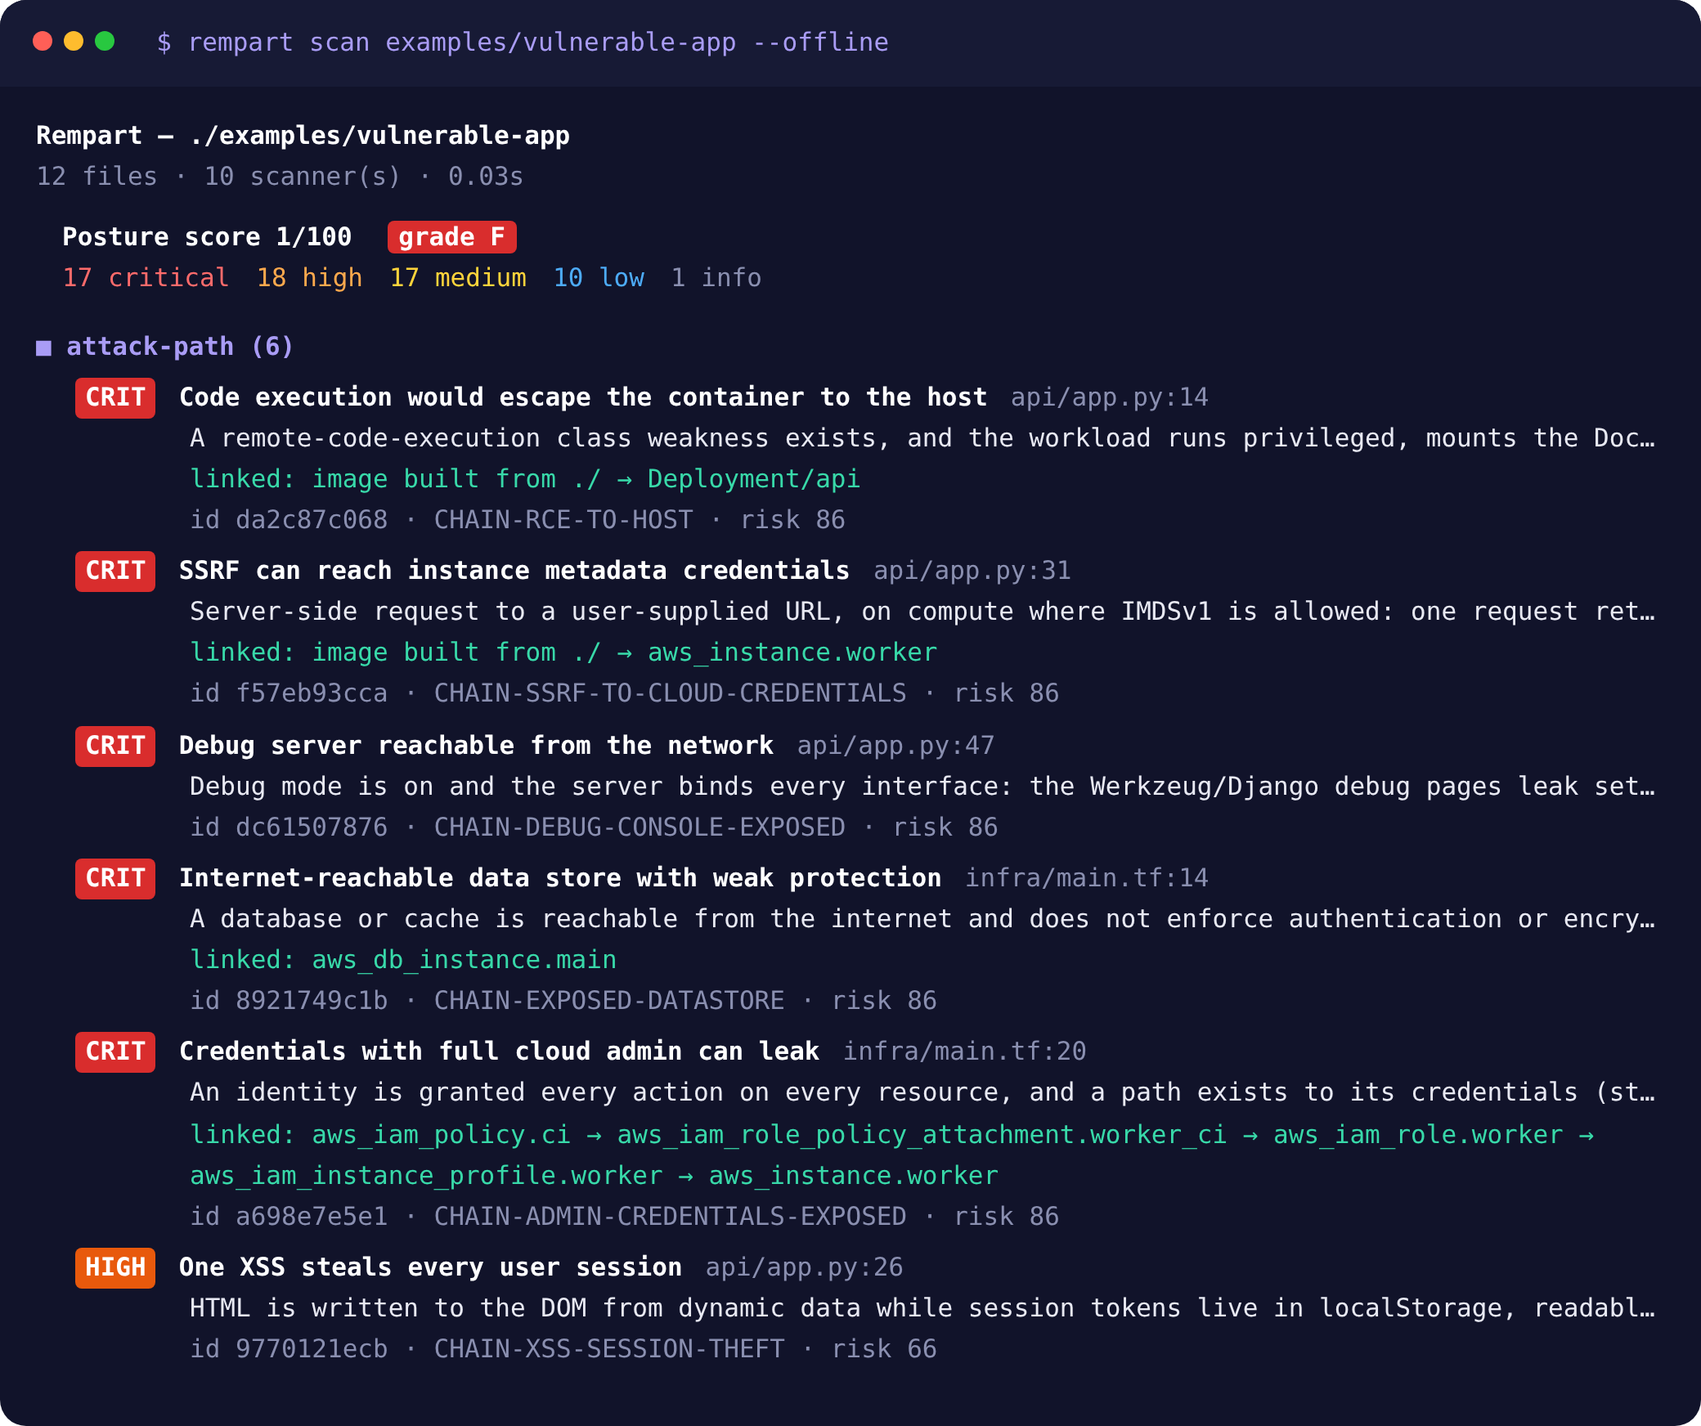
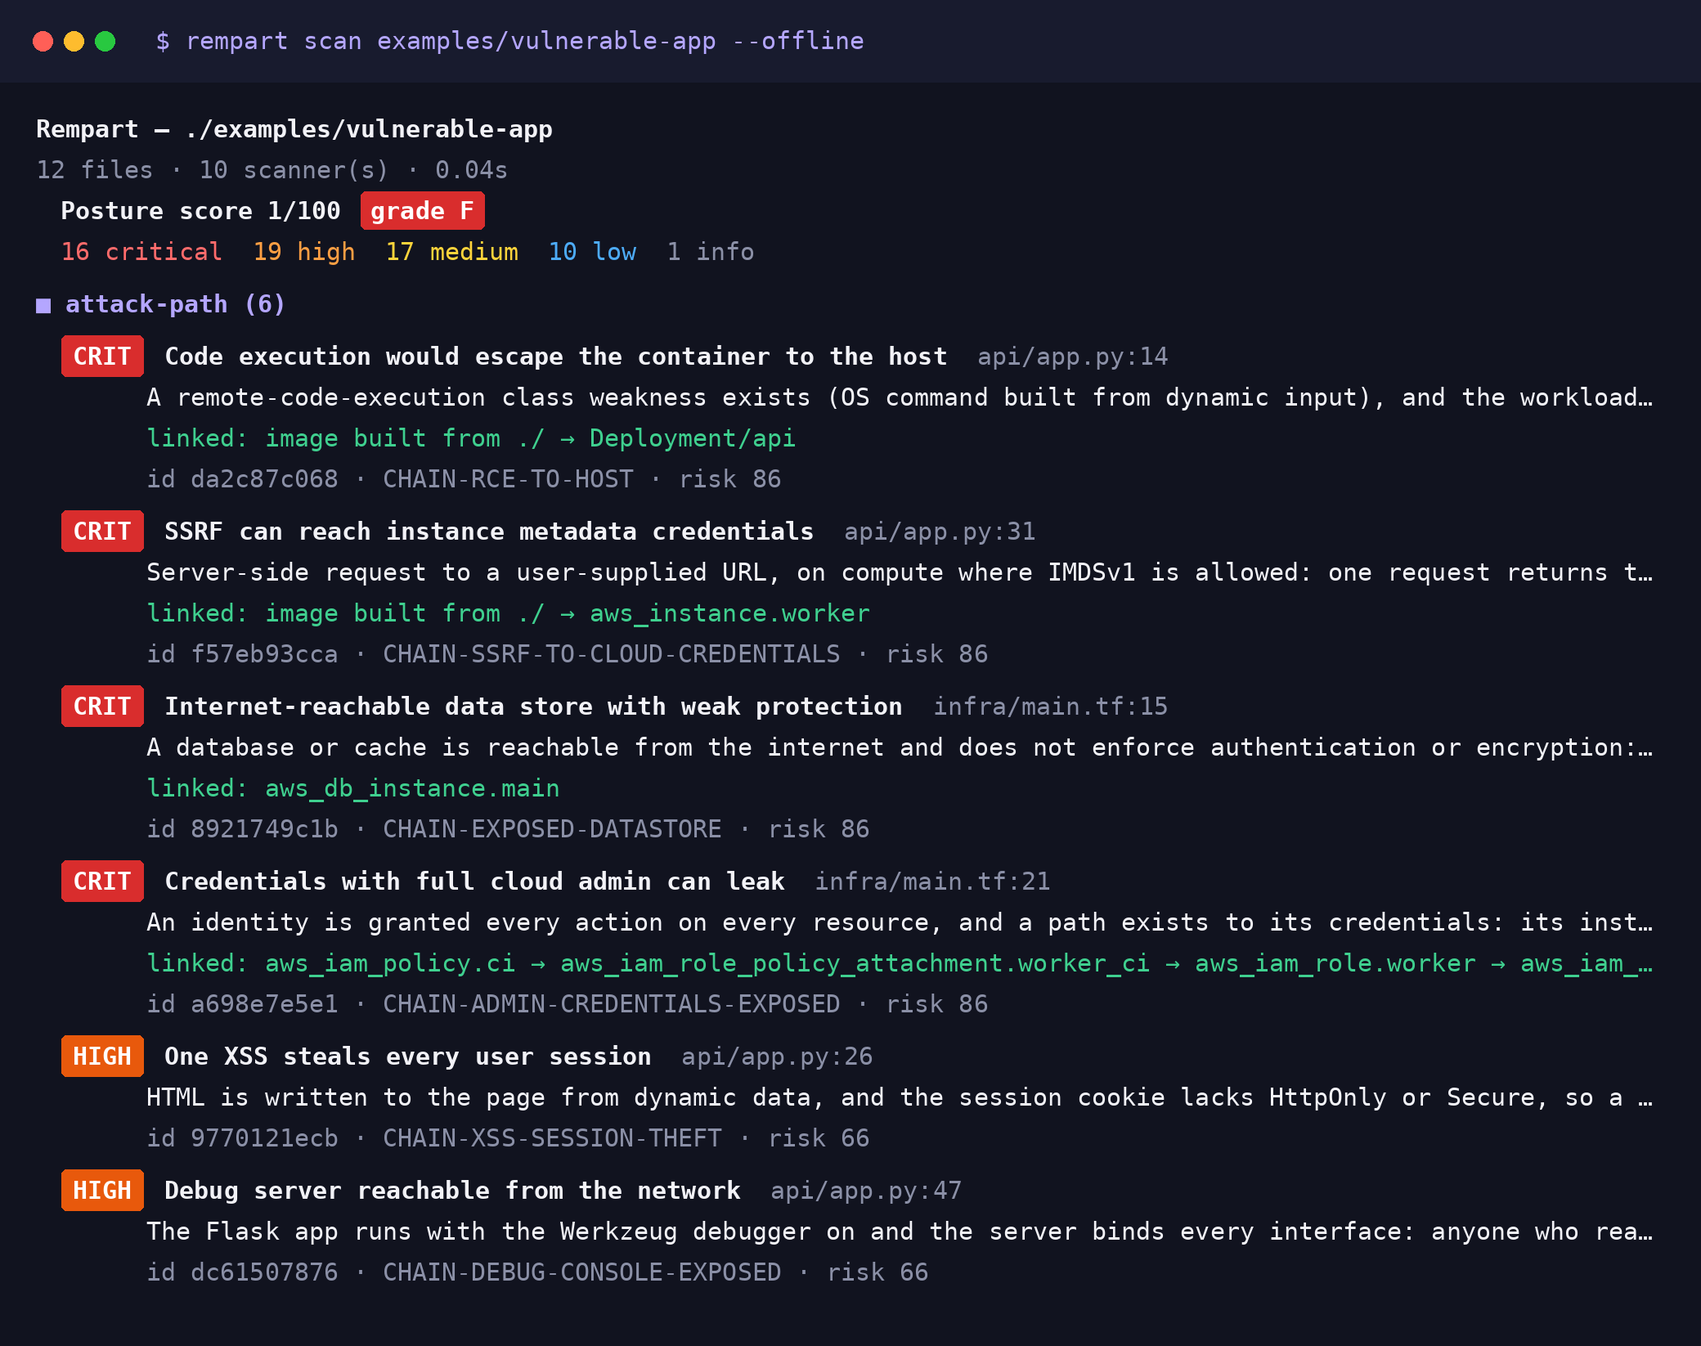
docs(P3): README states what was measured, and how
- demo caption: 4 linked chains (CRITICAL), 2 correlated (at most HIGH); the screenshot
  is redrawn from a real scan by scripts/render_demo.py
- 10 repository scanners + image, cloud and web commands; 319 rules split by where
  they apply (233 repository, 68 live, 11 images, 7 technical); 17 domains
- precision on code it had never seen: 4 % / 21 % before the fixes, 50 % / 75 % after
  on the same repositories, now a tuning set
- OWASP with and without INFO; cspm-lite 5/9 statically, 9/9 live not re-verified
- the unverifiable "8 % -> 80 %" claim is removed
- MCP: registry pulls are not limited to public addresses
- Limits rewritten for the current behaviour

diff --git a/scripts/render_demo.py b/scripts/render_demo.py
@@ -1,0 +1,111 @@
+"""Render docs/assets/demo-scan.png from a real scan of examples/vulnerable-app.
+
+    pip install pillow
+    python scripts/render_demo.py [--font DejaVuSansMono.ttf --bold DejaVuSansMono-Bold.ttf]
+
+The README calls the image "real output": it is redrawn from the console output of
+`rempart scan examples/vulnerable-app --offline --no-history` each time this runs, never
+edited by hand. Only the header and the attack-path section are drawn, and long lines are
+cut at the image width, as a terminal would.
+"""
+
+from __future__ import annotations
+
+import argparse
+import os
+import re
+import subprocess
+import sys
+from pathlib import Path
+
+from PIL import Image, ImageDraw, ImageFont
+
+ROOT = Path(__file__).resolve().parents[1]
+OUT = ROOT / "docs" / "assets" / "demo-scan.png"
+FONTS = "/usr/share/fonts/truetype/dejavu"
+
+BG, BAR, FG, DIM, ACCENT = "#11131f", "#181b2e", "#f2f2f7", "#8b90a7", "#b4a6ff"
+LINK = "#3fd08f"
+BADGE = {"CRIT": "#d92d2d", "HIGH": "#e8590c", "MED": "#e6b400", "LOW": "#2a78d6"}
+COUNT = {"critical": "#ff6b6b", "high": "#ff9f43", "medium": "#ffd43b", "low": "#4dabf7", "info": DIM}
+
+WIDTH, PAD, SIZE, LINE = 2080, 44, 30, 50
+
+
+def scan_output() -> list[str]:
+    env = {**os.environ, "PYTHONPATH": str(ROOT / "src"), "COLUMNS": "400", "NO_COLOR": "1"}
+    proc = subprocess.run([sys.executable, "-m", "rempart", "scan", "examples/vulnerable-app", "--offline", "--no-history"],
+                          cwd=ROOT, capture_output=True, text=True, env=env)
+    lines = proc.stdout.splitlines()
+    end = next((i for i, x in enumerate(lines) if x.startswith("■") and "attack-path" not in x), len(lines))
+    return [x.replace(str(ROOT) + "/", "./") for x in lines[:end]]
+
+
+def fit(draw: ImageDraw.ImageDraw, text: str, font, width: int) -> str:
+    if draw.textlength(text, font=font) <= width:
+        return text
+    while text and draw.textlength(text + "…", font=font) > width:
+        text = text[:-1]
+    return text + "…"
+
+
+def main() -> None:
+    ap = argparse.ArgumentParser()
+    ap.add_argument("--font", default=f"{FONTS}/DejaVuSansMono.ttf")
+    ap.add_argument("--bold", default=f"{FONTS}/DejaVuSansMono-Bold.ttf")
+    args = ap.parse_args()
+    regular, bold = ImageFont.truetype(args.font, SIZE), ImageFont.truetype(args.bold, SIZE)
+    lines = [x for x in scan_output() if x.strip()]
+
+    height = 110 + PAD + LINE * (len(lines) + 4)
+    img = Image.new("RGB", (WIDTH, height), BG)
+    d = ImageDraw.Draw(img)
+    d.rectangle((0, 0, WIDTH, 100), fill=BAR)
+    for i, c in enumerate(("#ff5f57", "#febc2e", "#28c840")):
+        d.ellipse((40 + i * 38, 38, 64 + i * 38, 62), fill=c)
+    d.text((190, 32), "$ rempart scan examples/vulnerable-app --offline", font=regular, fill=ACCENT)
+
+    y, right = 140, WIDTH - PAD
+    for raw in lines:
+        text = raw.strip()
+        indent = PAD + (len(raw) - len(raw.lstrip())) * 15
+        m = re.match(r"(CRIT|HIGH|MED|LOW)\s+(.*?)\s{2,}(\S+:\d+)$", text)
+        if text.startswith("Rempart"):
+            d.text((PAD, y), text, font=bold, fill=FG)
+        elif text.startswith("Posture score"):
+            score, _, grade = text.partition("grade")
+            d.text((indent, y), score.strip(), font=bold, fill=FG)
+            x = indent + d.textlength(score.strip() + "  ", font=bold)
+            label = f"grade{grade}"
+            w = d.textlength(label, font=bold)
+            d.rounded_rectangle((x - 12, y - 6, x + w + 12, y + 40), 6, fill=BADGE["CRIT"])
+            d.text((x, y), label, font=bold, fill="#ffffff")
+        elif re.match(r"\d+ critical", text):
+            x = indent
+            for part in re.findall(r"\d+ \w+", text):
+                d.text((x, y), part, font=regular, fill=COUNT.get(part.split()[1], FG))
+                x += d.textlength(part + "  ", font=regular)
+        elif text.startswith("■"):
+            d.text((PAD, y), text, font=bold, fill=ACCENT)
+        elif m:
+            sev, title, where = m.groups()
+            w = d.textlength(sev, font=bold)
+            d.rounded_rectangle((indent - 14, y - 8, indent + w + 14, y + 42), 6, fill=BADGE[sev])
+            d.text((indent, y), sev, font=bold, fill="#ffffff")
+            x = indent + w + 40
+            d.text((x, y), title, font=bold, fill=FG)
+            d.text((x + d.textlength(title + "  ", font=bold), y), where, font=regular, fill=DIM)
+        elif text.startswith("linked:"):
+            d.text((indent, y), fit(d, text, regular, right - indent), font=regular, fill=LINK)
+        elif text.startswith("id "):
+            d.text((indent, y), text, font=regular, fill=DIM)
+        else:
+            d.text((indent, y), fit(d, text, regular, right - indent), font=regular, fill=DIM if "scanner(s)" in text else FG)
+        y += LINE + (14 if text.startswith(("id ", "■")) or "info" in text else 0)
+    img = img.crop((0, 0, WIDTH, y + PAD))
+    img.save(OUT, optimize=True)
+    print(f"{OUT.relative_to(ROOT)}: {img.width}x{img.height}")
+
+
+if __name__ == "__main__":
+    main()

diff --git a/README.md b/README.md
@@ -5,10 +5,10 @@
 <p align="center">
   <a href="LICENSE"><img alt="MIT" src="https://img.shields.io/badge/license-MIT-6d4aff?style=for-the-badge"></a>
   <a href="pyproject.toml"><img alt="Python 3.11+" src="https://img.shields.io/badge/python-3.11%2B-3776AB?style=for-the-badge&logo=python&logoColor=white"></a>
-  <a href="tests"><img alt="160 tests" src="https://img.shields.io/badge/tests-160%20passing-12805c?style=for-the-badge"></a>
-  <a href="docs/RULES.md"><img alt="316 rules" src="https://img.shields.io/badge/rules-316-2a78d6?style=for-the-badge"></a>
+  <a href="tests"><img alt="241 tests" src="https://img.shields.io/badge/tests-241%20passing-12805c?style=for-the-badge"></a>
+  <a href="#-measured-not-claimed"><img alt="319 rules, 233 for a repository scan" src="https://img.shields.io/badge/rules-319%20(233%20repo)-2a78d6?style=for-the-badge"></a>
   <a href="docs/THREAT_CATALOG.md"><img alt="OWASP 2025" src="https://img.shields.io/badge/OWASP%20Top%2010-2025-14161b?style=for-the-badge"></a>
-  <a href="#-measured-not-claimed"><img alt="OWASP Benchmark 99.4" src="https://img.shields.io/badge/OWASP%20Benchmark-99.4-12805c?style=for-the-badge"></a>
+  <a href="#-measured-not-claimed"><img alt="OWASP Benchmark 99.4 (87.7 with INFO)" src="https://img.shields.io/badge/OWASP%20Benchmark-99.4%20%2F%2087.7%20with%20INFO-12805c?style=for-the-badge"></a>
   <a href="#-plug-it-into-your-ai-coding-assistant-mcp"><img alt="MCP server" src="https://img.shields.io/badge/MCP-server-e8590c?style=for-the-badge"></a>
 </p>
 
@@ -31,7 +31,7 @@
 
 <p align="center">
   <img src="docs/assets/demo-scan.png" alt="Real output of rempart scan on the intentionally vulnerable demo app" width="92%">
-  <br><sub>Real output on <code>examples/vulnerable-app</code>: six attack paths, five of them proven through the infrastructure that connects their pieces.</sub>
+  <br><sub>Real output on <code>examples/vulnerable-app</code> (redrawn by <code>scripts/render_demo.py</code>): six attack paths, <b>4 linked</b> through the infrastructure that connects their pieces (CRITICAL) and <b>2 correlated</b>, found in the same project with no link between them (at most HIGH).</sub>
 </p>
 
 ## ✨ Why Rempart
@@ -118,7 +118,7 @@ Verdicts, fixes and knowledge made in the interface teach the CLI too: it is the
 ```mermaid
 flowchart LR
     IN["WHAT IT READS<br/>repository + git history · container image<br/>live AWS · GCP · Azure · Kubernetes · website"]
-    SC["13 SCANNERS<br/>316 rules · 16 domains"]
+    SC["10 REPOSITORY SCANNERS<br/>+ image, cloud and web commands<br/>319 rules · 17 domains"]
     IQ["INTELLIGENCE<br/>inter-procedural data flow · reachability<br/>live verification · resource graph<br/>AI agent · learning per context"]
     OUT["OUTPUTS<br/>terminal · HTML · SARIF<br/>JSON · Markdown · MCP"]
     IN --> SC --> IQ --> OUT
@@ -207,14 +207,14 @@ It is tested against the real Anthropic Python SDK through a mocked HTTP transpo
 
 The assistant can only scan inside the `--root` directories (default: the server's working directory, or `REMPART_MCP_ROOTS`), and `rempart_web_audit` only reaches **public** addresses: the host is resolved once, every address must be public (no private, loopback, link-local, cloud-metadata or reserved range), and the connection goes to that checked address, so a changing DNS answer cannot redirect it; redirects are checked at every hop.
 
-Tools: `rempart_scan` · `rempart_finding` · `rempart_triage` · `rempart_web_audit` · `rempart_image_scan` · `rempart_rules`. Your assistant can scan, read details and record verdicts while it writes code.
+Tools: `rempart_scan` · `rempart_finding` · `rempart_triage` · `rempart_web_audit` · `rempart_image_scan` · `rempart_rules`. Your assistant can scan, read details and record verdicts while it writes code. `rempart_image_scan` reads a local archive only inside the roots, but it pulls a **registry** image from any registry the machine can reach, internal ones included: the public-address check applies to the web audit only.
 
 What an assistant records is **evidence, not a decision**: `rempart_triage` stores its verdict with the source `ai_assistant`, at weight 0.5, in the scanned project only. It never closes a finding and never changes the severity that `--fail-on` reads: only verdicts from `rempart triage` (a person) do. A reason it gives (`because`) is stored as a proposal that a person accepts with `rempart learn --accept-proposals`.
 
 ## 🗺 Coverage
 
 <details open>
-<summary><b>16 domains, mapped to current frameworks</b></summary>
+<summary><b>17 domains, mapped to current frameworks</b></summary>
 
 | Domain | Highlights | Frameworks |
 |---|---|---|
@@ -230,6 +230,8 @@ What an assistant records is **evidence, not a decision**: `rempart_triage` stor
 | 🧠 **AI & agents** | Unpinned MCP servers, secrets in MCP configs, invisible Unicode in assistant instruction files, LLM output to sinks, shell-executing tools | OWASP LLM 2025, Agentic 2026 |
 | 🧹 **Quality & perf** | Fail-open auth, swallowed exceptions, N+1 queries, missing timeouts, unbounded queries, blocking I/O | A10:2025 |
 | 🌐 **Web (passive)** | HTTPS, HSTS, CSP, framing, cookies, CORS, banners, legacy TLS, certificate expiry, `security.txt`, cold/warm TTFB | A02/A04/A07:2025 |
+
+**Where the 319 rules apply** (`rempart rules`): **233** run in a repository scan (`rempart scan`), 52 of them for secrets, 39 for code, 31 for Terraform, 18 for data stores, 17 each for CI/CD and Kubernetes, 12 for containers, 10 for AI agents, 19 for quality and performance, 9 attack paths, 6 for the supply chain and 3 for dependencies (`DEP-VULNERABLE` carries every CVE). **68** run only against a live account or site (AWS 29, Google Cloud and Azure 22, web 17), **11** only on container images, and **7** are technical notices (`*-CHECK-SKIPPED`, `CTX-*`, `SCANNER-ERROR`, `REMPART-CONFIG-CHANGED`). The 17th domain, `scan`, only reports an incomplete scan.
 
 The full research is in **[docs/THREAT_CATALOG.md](docs/THREAT_CATALOG.md)**: every threat class, the 2025-2026 incidents behind it, and an honest list of what static analysis cannot see. All rules: [docs/RULES.md](docs/RULES.md).
 
@@ -276,22 +278,45 @@ The formats are `console` · `json` · `sarif` · `md` · `html` (a self-contain
 
 ## 📏 Measured, not claimed
 
+### Precision on code it had never seen
+
+The number that matters most, and the worst one. Five public repositories (Flask, Django, Next.js, Terraform, Kubernetes + GitHub Actions), pinned to a commit, scanned with `rempart scan --offline`. Each critical/high finding of the top 10 by risk is labelled by reading the code: **strict** = real issues / labelled, **large** also counts debatable ones. Reproduce: `python bench/realworld.py --stress -v`.
+
+| Repository | Before the October 2026 fixes (never seen) | After the fixes (now a tuning set) |
+|---|---|---|
+| miguelgrinberg/microblog | 0 % / 50 % (2 findings) | no critical/high finding |
+| django/djangoproject.com | 0 % / 20 % (10) | 0 % / 0 % (1) |
+| vercel/commerce | no critical/high finding | no critical/high finding |
+| terraform-aws-modules/terraform-aws-eks | 0 % / 0 % (3) | no critical/high finding |
+| GoogleCloudPlatform/microservices-demo | 11 % / 22 % (9) | 57 % / 86 % (7) |
+| **Total, strict / large** | **4 % / 21 %** (24 findings: 1 real, 19 wrong, 4 debatable) | **50 % / 75 %** (8 findings: 4 real, 2 wrong, 2 debatable) |
+| django/django (time and crashes only) | crashed (`TypeError`), reported as a clean scan | no crash, 109 s |
+
+Read the right-hand column with care: the fixes were written while looking at these five repositories' false positives (general rules, but chosen by looking), so they are **no longer unseen code**. Five other repositories are held out in [`bench/holdout`](bench/holdout) and will be scanned once, without tuning, to give the next honest number. Nothing here measures how many real issues are missed. A nightly job ([realworld-nightly.yml](.github/workflows/realworld-nightly.yml)) fails on any drop against [`bench/realworld/baseline.json`](bench/realworld/baseline.json).
+
+### Other measurements
+
 | Target | Result |
 |---|---|
-| [OWASP Benchmark for Python](https://github.com/OWASP-Benchmark/BenchmarkPython) (1,230 labelled test cases, 14 categories) | **99.4 / 100** (Youden index). True-positive rate 100 % in every category, false-positive rate 0 % in 12 of 14. Reproduce: `python bench/owasp_python.py <clone>` |
-| 10 real private repositories, every critical/high finding labelled by hand | Precision **8 % → 80 %** strict (100 % counting the one debatable case) while keeping **all 4** real issues |
-| [cspm-lite](https://github.com/Houssam2510/cspm-lite) vulnerable AWS lab | **9 / 9** planted misconfigurations + 2 attack paths |
+| [OWASP Benchmark for Python](https://github.com/OWASP-Benchmark/BenchmarkPython) (1,230 labelled test cases, 14 categories) | **99.4 / 100** (Youden index) counting alerts (LOW and above); **87.7** if INFO notes count too (XML parsers whose safety depends on configuration are reported as INFO on the XXE traps). True-positive rate 100 % in every category. The benchmark is synthetic, one Flask handler per case: the table above shows that this score does not carry over to real code. Reproduce: `python bench/owasp_python.py <clone>` (prints both). |
+| [cspm-lite](https://github.com/Houssam2510/cspm-lite) vulnerable AWS lab, 9 planted misconfigurations | **Statically** on its Terraform (`rempart scan lab/`): **5 / 9** (Block Public Access off, `Principal "*"`, AdministratorAccess, `Action "*"`, ports 22 and 3306), plus 2 attack paths (1 linked, 1 correlated). Missed statically: S3 encryption, versioning, the TLS-only condition, VPC flow logs. **Live** against the deployed lab (`rempart cloud aws`): 9 / 9 was observed when the checks were written; **not re-verified** since (no AWS account in the October 2026 audit). |
 | `traefik:v2.10.4` (live pull) | Go modules and toolchain read from the binary: `golang.org/x/net@v0.11.0` HTTP/2 Rapid Reset (KEV) found |
 | `rockylinux:9-minimal` (live pull) | RPM database parsed, advisories matched by source package |
-| AWS / GCP / Azure checks | 28 validated against the AWS service models (botocore Stubber); GCP and Azure against recorded CLI output |
-| `rempart bench`: 22 bundled cases, every domain that reads files, 90 labelled issues + 73 traps | Precision **100 %**, recall **97.8 %**. The 2 misses are known gaps (Terraform variables, JS across modules). This corpus is a **regression gate**, not a held-out set: building it exposed 11 defects, all fixed since, so it shows that they stay fixed, not how Rempart does on code it has never seen. CI fails on any drop in any domain. |
-| Rempart on itself | 160 tests; CI fails on any high finding and on any bench regression |
+| AWS / GCP / Azure checks | 28 validated against the AWS service models (botocore Stubber); GCP and Azure against recorded CLI output. None against a real account in CI. |
+| `rempart bench`: 22 bundled cases, every domain that reads files, 92 labelled issues + 73 traps | Precision **100 %**, recall **98.9 %**. The miss is a known gap (JS across modules). This corpus is a **regression gate**, not a held-out set: building it exposed 11 defects, all fixed since, so it shows that they stay fixed, not how Rempart does on code it has never seen. CI fails on any drop in any domain. |
+| Rempart on itself | 241 tests; CI fails on any high finding and on any bench regression |
+
+An earlier version of this page claimed "precision 8 % → 80 % on 10 private repositories". Those repositories cannot be published, so the claim cannot be checked, and the public measurement above contradicts it: it has been removed.
 
 ## ⚠ Limits, stated plainly
 
+- **Precision on unseen real code is low.** 4 % strict on the five repositories above before tuning; the tuned 50 % is not yet confirmed on held-out code. Expect to triage, and teach it with `--because`.
 - **JS/TS data flow** follows variables and functions **within a file**; Python follows functions across the whole repository. Values that cross JS modules are reached by the AI agent, not the static layer.
-- **Terraform values** are read literally: `cidr_blocks = [var.admin_cidr]` is not resolved to the variable's default yet.
-- **Links between code and cloud** are proven when the repository says what runs where (an image built here referenced by a workload, a Terraform reference). Live AWS/GCP/Azure findings are not yet tied to repository resources, so those chains stay co-occurrences.
+- **Python call resolution** links a call to the project's function only when the target is certain (same module, an import, the object's own class or its project base classes). A call matched by method name alone is capped at MEDIUM and says so. Dynamic imports (`importlib`, `__import__`) are not followed. A project function named like a known escaper (`escape_html`…) is trusted by its name.
+- **Terraform values** are resolved in simple cases only: variable defaults (including `optional()` defaults), `terraform.tfvars` / `*.auto.tfvars` of the same directory, literal locals, single-element `dynamic` blocks. Values passed into a child module and multi-element `for_each` are not; a check that reads an unresolved value is capped at MEDIUM and says "Value not resolved".
+- **File kinds** (application, development, example, test, vendored, docs) are guessed from paths and layout ([filekind.py](src/rempart/filekind.py) lists the rules). A development file with an unusual name is treated as shipped code.
+- **Attack paths**: only a **linked** chain (the infrastructure connects its pieces) is CRITICAL. A **correlated** chain only means both pieces are in the project and is at most HIGH. Neither is a proof of exploitation.
+- **Links between code and cloud** are proven when the repository says what runs where (an image built here referenced by a workload, a Terraform reference). Live AWS/GCP/Azure findings are not yet tied to repository resources, so those chains stay correlated.
 - **Logic flaws** (IDOR, business-flow abuse) are a review queue, not verdicts.
 - **Images**: RPM databases in the older BerkeleyDB format (RHEL 7/8) and Red Hat's own advisory feed are not covered.
 - **The web mode is passive.** It is not a penetration test, and proof tests are written, never run.
